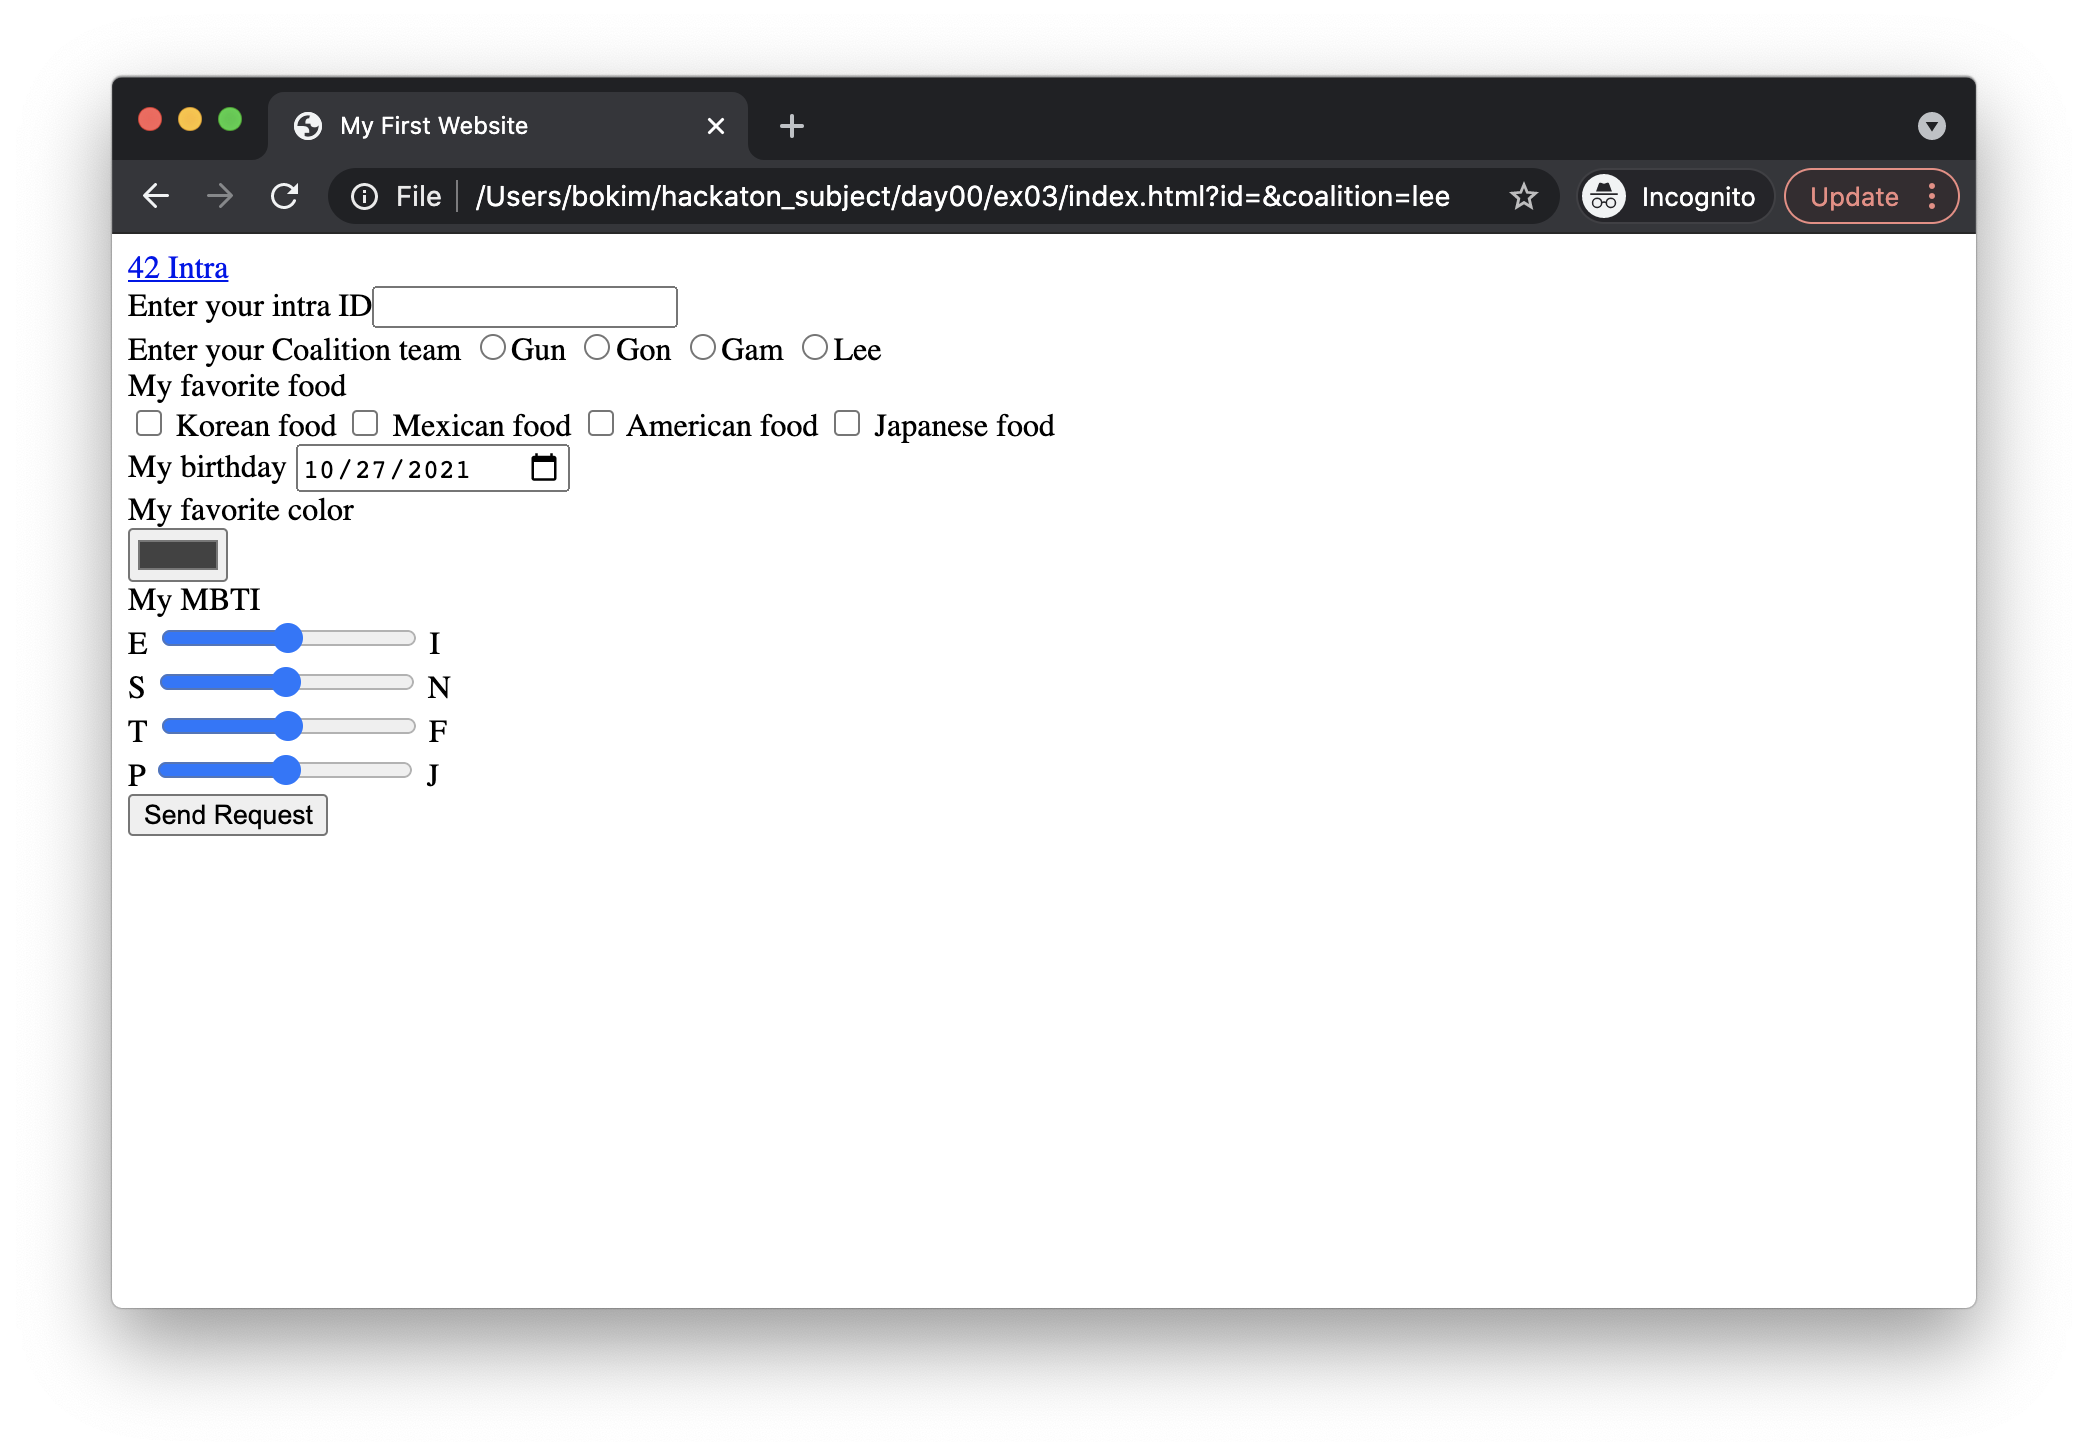
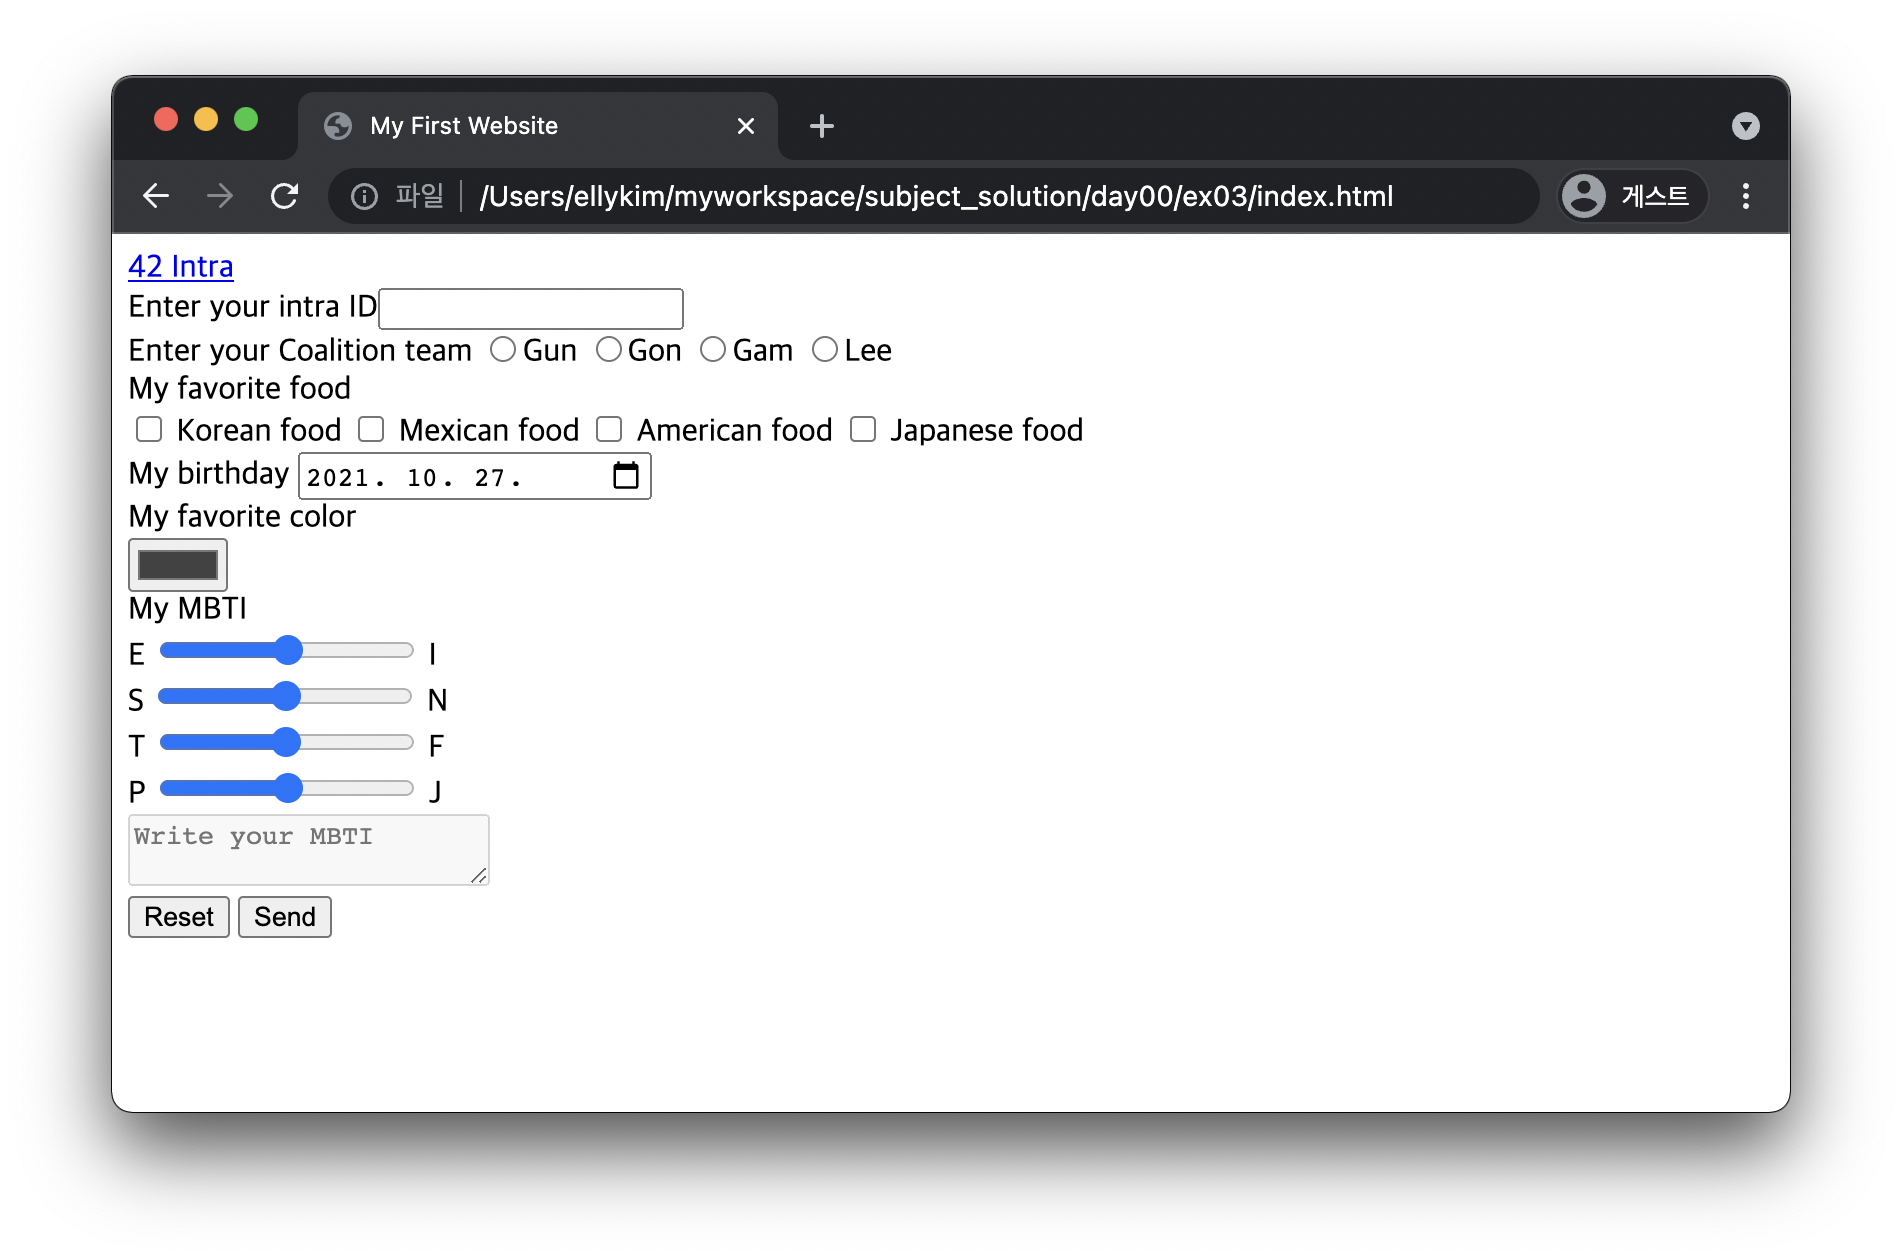
feature/subject : edit DAY00 ex03

Changed region(s): [[0.031, 0.031, 0.9616, 0.9286], [0.4653, 0.3405, 0.5584, 0.3714]]

diff --git a/pages/day00.html b/pages/day00.html
@@ -335,6 +335,11 @@
                 42 intra 글자를 클릭하면 새 창에서 https://intra.42.fr 이
                 열립니다.
               </li>
+              <li>
+                Write your MBTI에는 원래 텍스트를 입력할 수 있지만 막아둡시다.
+              </li>
+              <li>Reset 클릭 시 입력한 정보가 초기화 됩니다.</li>
+              <li>Send 클릭 시 입력한 정보가 서버로 전송됩니다.</li>
               <li>아래와 같이 페이지에 출력하세요.</li>
             </ul>
             <img class="content__img" src="../assets/day00/ex03.png" />
